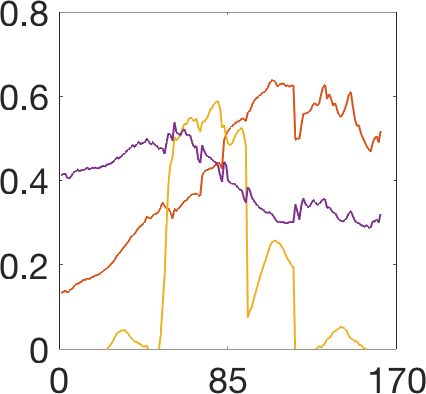
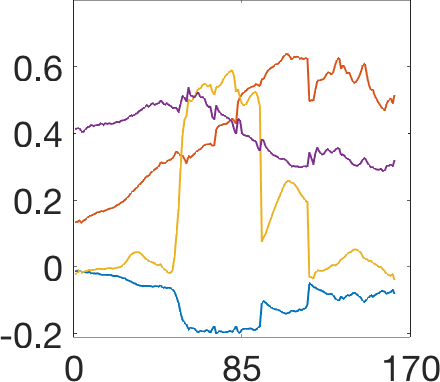
updated S qmv

diff --git a/demo_urban.m b/demo_urban.m
@@ -535,7 +535,7 @@ export_fig(fullFileName, '-transparent');
 
 f = figure('visible','off'); plot(S_qmv, 'LineWidth', 2); 
 axis square;
-axis([0 170 0 0.8])
+axis([0 170 -0.21 0.8])
 xticks([0 85 170])
 set(gca,'FontSize',36)
 pngFileName = 'S_qmv.png';
